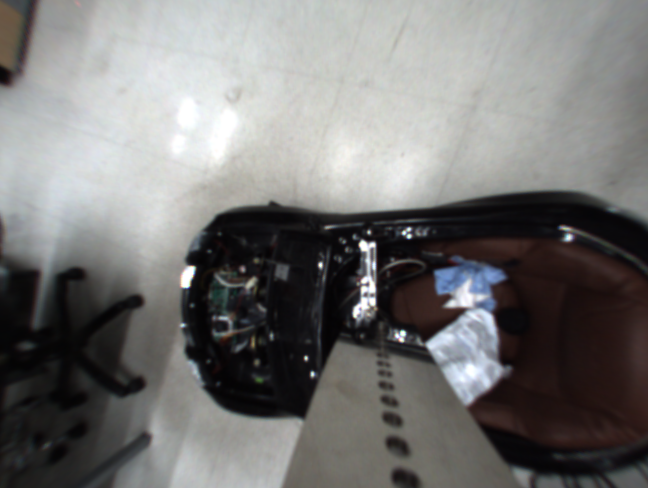
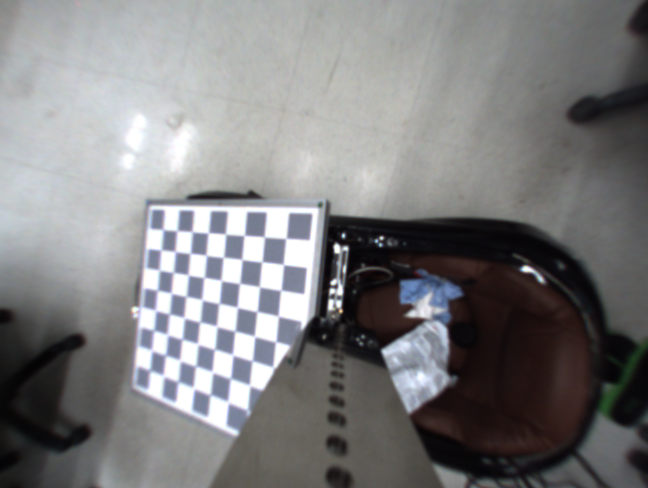
image stitching fail. needs to another solution

diff --git a/staticEndVersion/calibration_JS_fisheye.py b/staticEndVersion/calibration_JS_fisheye.py
@@ -21,11 +21,13 @@ import os
 #flag
 flag_subscribe_new_image_not_load_old_image = 1
 flag_publish_calibrated_image = 1
+
+
 flag_load_calibrated_result = 1
 flag_load_detected_result = 0
 flag_fisheye_calibrate = 1
 flag_save_image_onlyWhichDetectCheckeboard = 1
-flag_show_image = 0
+flag_show_image = 1
 
 
 #parameter
@@ -297,7 +299,7 @@ class calibration:
         dim1 = dim0
         dim2 = dim1
         dim3 = tuple((np.array(dim1)*1).astype(int))
-        displayDim = tuple((np.array(frame.shape[:2][::-1]) / 2.5).astype(int))
+        displayDim = (640, 480) #tuple((np.array(frame.shape[:2][::-1]) / 2.5).astype(int))
         #print('dim3 is ', dim3, 'dim2 is ', dim2, 'dim1 is ', dim1)
         #print('shape of the tained images are ', (self.width, self.height))
 
@@ -335,49 +337,48 @@ class calibration:
 
             if self.flag_get_undistort_param == 1:
 
-                self.new_camera_matrix = cv2.fisheye.estimateNewCameraMatrixForUndistortRectify(K=self.camera_matrix,
-                                                                                                D=self.distCoeffs,
-                                                                                                image_size=(self.width, self.height),
-                                                                                                R=np.eye(3),
-                                                                                                P=None,
-                                                                                                balance=mybalance,
-                                                                                                new_size=dim3#,fov_scale=1.0
-                                                                                                )
-
-                # https://medium.com/@kennethjiang/calibrate-fisheye-lens-using-opencv-part-2-13990f1b157f
-                self.map1, self.map2 = cv2.fisheye.initUndistortRectifyMap(K=self.camera_matrix,
-                                                                             D=self.distCoeffs,
-                                                                             R=np.eye(3),
-                                                                             P=self.camera_matrix,
-                                                                             size=dim3,
-                                                                             m1type=cv2.CV_32FC1)
-
-
-                # check the result of calibration
-                print('camera matrix is ')
-                print(self.camera_matrix)
-                print('new camera Matrix is ')
-                print(self.new_camera_matrix)
-                print('distort Coeffs is ')
-                print(self.distCoeffs)
-
+                # self.new_camera_matrix = cv2.fisheye.estimateNewCameraMatrixForUndistortRectify(K=self.camera_matrix,
+                #                                                                                 D=self.distCoeffs,
+                #                                                                                 image_size=(self.width, self.height),
+                #                                                                                 R=np.eye(3),
+                #                                                                                 P=None,
+                #                                                                                 balance=mybalance,
+                #                                                                                 new_size=dim3#,fov_scale=1.0
+                #                                                                                 )
+                #
+                # # https://medium.com/@kennethjiang/calibrate-fisheye-lens-using-opencv-part-2-13990f1b157f
+                # self.map1, self.map2 = cv2.fisheye.initUndistortRectifyMap(K=self.camera_matrix,
+                #                                                              D=self.distCoeffs,
+                #                                                              R=np.eye(3),
+                #                                                              P=self.camera_matrix,
+                #                                                              size=dim3,
+                #                                                              m1type=cv2.CV_32FC1)
+                #
+                #
+                # # check the result of calibration
+                # print('camera matrix is ')
+                # print(self.camera_matrix)
+                # print('new camera Matrix is ')
+                # print(self.new_camera_matrix)
+                # print('distort Coeffs is ')
+                # print(self.distCoeffs)
+                #
                 self.flag_get_undistort_param = 0
 
 
-            frame_undistorted_fisheye_camera_matrix = cv2.fisheye.undistortImage(frame, self.camera_matrix, self.distCoeffs, Knew=self.camera_matrix, new_size=(self.width, self.height))
-            #frame_undistorted_fisheye_manual = cv2.fisheye.undistortImage(frame, self.camera_matrix, self.distCoeffs, Knew=self.camera_matrix, new_size=dim3)
-            frame_undistorted_fisheye_remap_with_origin_camera_matrix = cv2.remap(src=frame,map1=self.map1,map2=self.map2,interpolation=cv2.INTER_LINEAR,borderMode=cv2.BORDER_DEFAULT)
+            frame_undistorted_fisheye_camera_matrix = cv2.fisheye.undistortImage(frame, self.camera_matrix, self.distCoeffs, Knew=self.camera_matrix, new_size=dim0)#(self.width, self.height))
+            # frame_undistorted_fisheye_remap_with_origin_camera_matrix = cv2.remap(src=frame,map1=self.map1,map2=self.map2,interpolation=cv2.INTER_LINEAR,borderMode=cv2.BORDER_DEFAULT)
 
             if flag_show_image == 1:
-                cv2.imshow('jaesungLensFrame', np.concatenate((cv2.resize(frame_undistorted_fisheye_camera_matrix, displayDim, cv2.INTER_LINEAR),
-                                                         cv2.resize(frame_undistorted_fisheye_remap_with_origin_camera_matrix, displayDim, cv2.INTER_LINEAR),
-                                                         cv2.resize(frame, displayDim, cv2.INTER_LINEAR)),axis=1))
+                # cv2.imshow('jaesungLensFrame', np.concatenate((cv2.resize(frame_undistorted_fisheye_camera_matrix, displayDim, cv2.INTER_LINEAR),
+                #                                          cv2.resize(frame_undistorted_fisheye_remap_with_origin_camera_matrix, displayDim, cv2.INTER_LINEAR),
+                #                                          cv2.resize(frame, displayDim, cv2.INTER_LINEAR)),axis=1))
 
-            #cv2.imwrite('JSResultImage.png', cv2.resize(frame_undistorted_fisheye_camera_matrix, dim0, cv2.INTER_LINEAR))
+                tmp = cv2.resize(frame_undistorted_fisheye_camera_matrix, displayDim, cv2.INTER_LINEAR)
+                cv2.imshow('JS calibrated resuls', tmp)
 
             cv2.waitKey(1)
-            return frame_undistorted_fisheye_camera_matrix
-            #return cv2.resize(frame_undistorted_fisheye_camera_matrix, (10,10), cv2.INTER_LINEAR)
+            return tmp
         else:
             print('error for <flag_fisheye_calibrate>')
             return None

diff --git a/staticEndVersion/calibration_Francois_fisheye.py b/staticEndVersion/calibration_Francois_fisheye.py
@@ -20,11 +20,13 @@ import os
 #flag
 flag_subscribe_new_image_not_load_old_image = 1
 flag_publish_calibrated_image = 1
+
+
 flag_load_calibrated_result = 1
 flag_load_detected_result = 0
 flag_fisheye_calibrate = 1
 flag_save_image_onlyWhichDetectCheckeboard = 1
-flag_show_image = 0
+flag_show_image = 1
 
 
 #parameter
@@ -259,7 +261,7 @@ class calibration:
         trainImageShape = (self.width_train, self.height_train)
         currentFrameShape = frame.shape[:2][::-1]
         dim3 = tuple((np.array(currentFrameShape) / 1).astype(int))
-        displayDim = tuple((np.array(currentFrameShape) / 1.3).astype(int))
+        displayDim = (640, 480)#tuple((np.array(currentFrameShape) / 1.3).astype(int))
         # print('trainImageShapeis ', trainImageShape, 'currentFrameShape is ', currentFrameShape, 'displayDim is ', displayDim)
 
         if flag_fisheye_calibrate == 0:
@@ -303,47 +305,46 @@ class calibration:
 
             if self.flag_get_undistort_param == 1:
 
-                self.new_camera_matrix = cv2.fisheye.estimateNewCameraMatrixForUndistortRectify(K=self.camera_matrix,
-                                                                                                D=self.distCoeffs,
-                                                                                                image_size=trainImageShape,
-                                                                                                R=np.eye(3),
-                                                                                                #P=None,
-                                                                                                balance=mybalance,
-                                                                                                new_size=dim3#,fov_scale=1.0
-                                                                                                )
-
-                # https://medium.com/@kennethjiang/calibrate-fisheye-lens-using-opencv-part-2-13990f1b157f
-                self.map1, self.map2 = cv2.fisheye.initUndistortRectifyMap(K=self.camera_matrix,
-                                                                            D=self.distCoeffs,
-                                                                            R=np.eye(3),
-                                                                            P=self.camera_matrix,
-                                                                            size=currentFrameShape,
-                                                                            m1type=cv2.CV_32FC1)
-
-                # check the result of calibration
-                print('camera matrix is ')
-                print(self.camera_matrix)
-                print('new camera Matrix is ')
-                print(self.new_camera_matrix)
-                print('distort Coeffs is ')
-                print(self.distCoeffs)
+                # self.new_camera_matrix = cv2.fisheye.estimateNewCameraMatrixForUndistortRectify(K=self.camera_matrix,
+                #                                                                                 D=self.distCoeffs,
+                #                                                                                 image_size=trainImageShape,
+                #                                                                                 R=np.eye(3),
+                #                                                                                 #P=None,
+                #                                                                                 balance=mybalance,
+                #                                                                                 new_size=dim3#,fov_scale=1.0
+                #                                                                                 )
+                #
+                # # https://medium.com/@kennethjiang/calibrate-fisheye-lens-using-opencv-part-2-13990f1b157f
+                # self.map1, self.map2 = cv2.fisheye.initUndistortRectifyMap(K=self.camera_matrix,
+                #                                                             D=self.distCoeffs,
+                #                                                             R=np.eye(3),
+                #                                                             P=self.camera_matrix,
+                #                                                             size=currentFrameShape,
+                #                                                             m1type=cv2.CV_32FC1)
+                #
+                # # check the result of calibration
+                # print('camera matrix is ')
+                # print(self.camera_matrix)
+                # print('new camera Matrix is ')
+                # print(self.new_camera_matrix)
+                # print('distort Coeffs is ')
+                # print(self.distCoeffs)
 
                 self.flag_get_undistort_param = 0
 
 
             frame_undistorted_fisheye_camera_matrix = cv2.fisheye.undistortImage(frame, self.camera_matrix, self.distCoeffs, Knew=self.camera_matrix, new_size=currentFrameShape)
-            frame_undistorted_fisheye_remap_= cv2.remap(src=frame,map1=self.map1,map2=self.map2,interpolation=cv2.INTER_LINEAR,borderMode=cv2.BORDER_DEFAULT)
+            # frame_undistorted_fisheye_remap_= cv2.remap(src=frame,map1=self.map1,map2=self.map2,interpolation=cv2.INTER_LINEAR,borderMode=cv2.BORDER_DEFAULT)
 
             if flag_show_image == 1:
-                cv2.imshow('francoisLensFrame', np.concatenate((cv2.resize(frame_undistorted_fisheye_camera_matrix, displayDim, cv2.INTER_LINEAR),
-                                                         cv2.resize(frame_undistorted_fisheye_remap_, displayDim, cv2.INTER_LINEAR),
-                                                         cv2.resize(frame, displayDim, cv2.INTER_LINEAR)),axis=1))
-
-            #cv2.imwrite('FrancoisResultImage.png', cv2.resize(frame_undistorted_fisheye_camera_matrix, currentFrameShape, cv2.INTER_LINEAR))
-
+                # cv2.imshow('francoisLensFrame', np.concatenate((cv2.resize(frame_undistorted_fisheye_camera_matrix, displayDim, cv2.INTER_LINEAR),
+                #                                          cv2.resize(frame_undistorted_fisheye_remap_, displayDim, cv2.INTER_LINEAR),
+                #                                          cv2.resize(frame, displayDim, cv2.INTER_LINEAR)),axis=1))
+                tmp = cv2.resize(cv2.flip(frame_undistorted_fisheye_camera_matrix, flipCode=-1), displayDim, cv2.INTER_LINEAR)
+                cv2.imshow('fliped Francois frame', tmp)
 
             cv2.waitKey(1)
-            return frame_undistorted_fisheye_camera_matrix
+            return tmp
             # return cv2.resize(frame_undistorted_fisheye_camera_matrix, (10,10), cv2.INTER_LINEAR)
         else:
             print('error for <flag_fisheye_calibrate>')

diff --git a/imageStitching.py b/imageStitching.py
@@ -68,12 +68,15 @@ class matchers:
         kp, des = self.surf.detectAndCompute(gray, None)
         return {'kp':kp, 'des':des}
 
-
+# https://github.com/kushalvyas/Python-Multiple-Image-Stitching/blob/master/code/pano.py
 class Stitch:
-    def __init__(self, args):
-        self.images = [cv2.resize(cv2.imread(each), (480, 320)) for each in args]
-        self.count = len(self.images)
-        print('what is self.count ', self.count)
+    images = [[],[]]
+    def __init__(self, leftImage, rightImage):
+        self.images[0] = cv2.resize(leftImage, (480, 320), cv2.INTER_LINEAR)
+        self.images[1] = cv2.resize(rightImage, (480, 320), cv2.INTER_LINEAR)
+        #  = [cv2.resize(cv2.imread(each), (480, 320))b for each in (leftImage, rightImage)]
+        self.count = 2#len(self.images)
+        #print('what is self.count ', self.count)
         self.left_list, self.right_list, self.center_im = [], [], None
         self.matcher_obj = matchers()
         self.prepare_lists()
@@ -269,10 +272,14 @@ class dataLoadType:
             count = count + 1
 
             # if you want to work asynchronously, edit the lines below
-            #self.wrapper()
-            cv2.imshow('multi image display', np.concatenate((cv2.resize(self.singleImage_JS.imgData, (300,300), cv2.INTER_LINEAR),
-                                                                cv2.resize(self.singleImage_Francois.imgData, (300, 300), cv2.INTER_LINEAR))
-                                                                , axis=1))
+            # self.wrapper()
+
+            # cv2.imshow('multi image display', np.concatenate((cv2.resize(self.singleImage_JS.imgData, (480,320), cv2.INTER_LINEAR)[140:],
+            #                                                   cv2.resize(self.singleImage_Francois.imgData, (480,320), cv2.INTER_LINEAR))
+            #                                                  ,axis=1))
+
+            # cv2.imshow('fuck', self.singleImage_JS.imgData[:303])
+            cv2.imshow('stitched image', np.concatenate((self.singleImage_JS.imgData[:398], self.singleImage_Francois.imgData[274:]), axis=0))
             cv2.waitKey(1)
 
         except CvBridgeError as e:
@@ -294,52 +301,22 @@ class dataLoadType:
     #         print(e)
 
     def wrapper(self):
-        global count, num_of_image_in_database
-        global flag_subscribe_new_image_not_load_old_image, flag_load_calibrated_result
+        global count
 
-        # fucking code
-        self.calibrate_inst.height = self.singleImage_inst.height
-        self.calibrate_inst.width = self.singleImage_inst.width
+        s = Stitch(self.singleImage_JS.imgData, self.singleImage_Francois.imgData)
+        s.leftshift()
+        # s.showImage('left')
 
-        if flag_load_detected_result == 0 and flag_load_calibrated_result == 0:
-            if count < num_of_image_in_database:
-                self.calibrate_inst.detectCheckerBoard(self.singleImage_inst.imgData)
-            elif count == num_of_image_in_database:
-                self.calibrate_inst.detectCheckerBoard(self.singleImage_inst.imgData)
-                self.calibrate_inst.saveVarInDetection()
-                self.calibrate_inst.startCalibration()
-                self.calibrate_inst.saveVarAfterCalibration()
-            else:
-                self.singleImage_inst.imgCalibrated = self.calibrate_inst.undistort_imShow(self.singleImage_inst.imgData)
+        s.rightshift()
+        print('done')
 
-        elif flag_load_detected_result == 1 and flag_load_calibrated_result == 0:
-            # load Detection results, start calibratin and show undistorted image
-            if self.flag_fisrt_didLoadVarDetection == 1:
-                self.calibrate_inst.loadVarInDetection()
-                self.calibrate_inst.startCalibration()
-                self.calibrate_inst.saveVarAfterCalibration()
-                # do not come here again
-                self.flag_fisrt_didLoadVarDetection = 0
+        cv2.imshow('stitch result', s.leftImage)
+        cv2.waitKey(1)
 
-            self.singleImage_inst.imgCalibrated = self.calibrate_inst.undistort_imShow(self.singleImage_inst.imgData)
+        #cv2.imwrite("test12.jpg", s.leftImage)
+        #print('image written')
 
-        elif flag_load_calibrated_result == 1:
-            # load Calibration results and show undistorted image
-            if self.flag_first_didLoadVarCalibration == 1:
-                self.calibrate_inst.loadVarAfterCalibration()
-                # do not come here again
-                self.flag_first_didLoadVarCalibration = 0
 
-            self.singleImage_inst.imgCalibrated = self.calibrate_inst.undistort_imShow(self.singleImage_inst.imgData)
-
-        else:
-            print("fucking error for count = ", count)
-
-        if flag_publish_calibrated_image == 1:
-            try:
-                self.rospyPubImg.publish(self.bridge.cv2_to_imgmsg(self.singleImage_inst.imgCalibrated, "bgr8"))
-            except CvBridgeError as e:
-                print(e)
 
 class singleImageData:
     height = 0
@@ -372,20 +349,4 @@ if __name__ == '__main__':
     except KeyboardInterrupt:
         print('end')
 
-
-    # fileList = glob.glob('stitchTest/*.png')
-    # print('fileList is ', fileList)
-    #
-    # s = Stitch(fileList)
-    # s.leftshift()
-    # # s.showImage('left')
-    #
-    # s.rightshift()
-    # print('done')
-    #
-    # cv2.imshow('stitch result', s.leftImage)
-    # cv2.waitKey(1)
-
-    #cv2.imwrite("test12.jpg", s.leftImage)
-    #print('image written')
 
